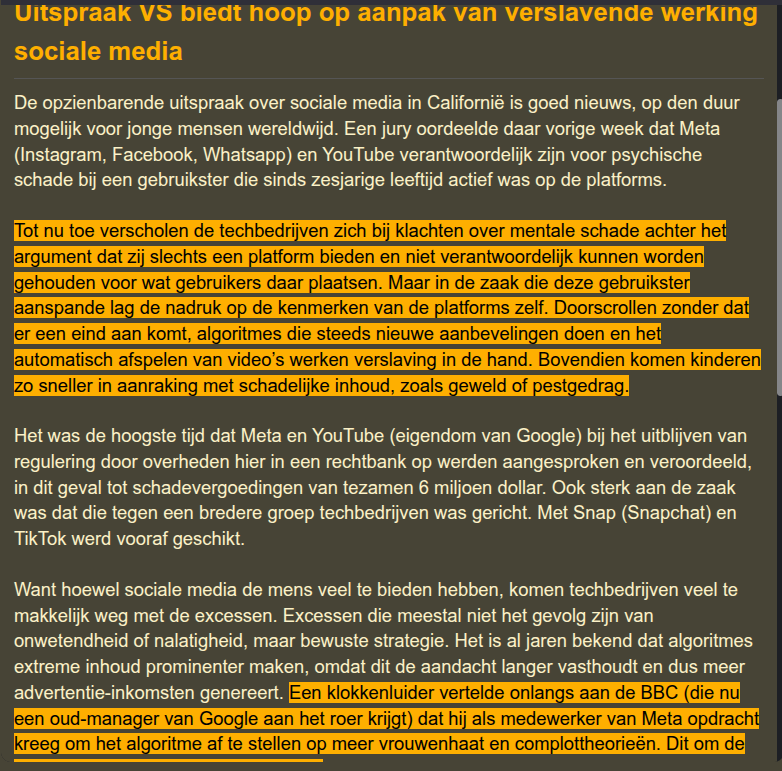
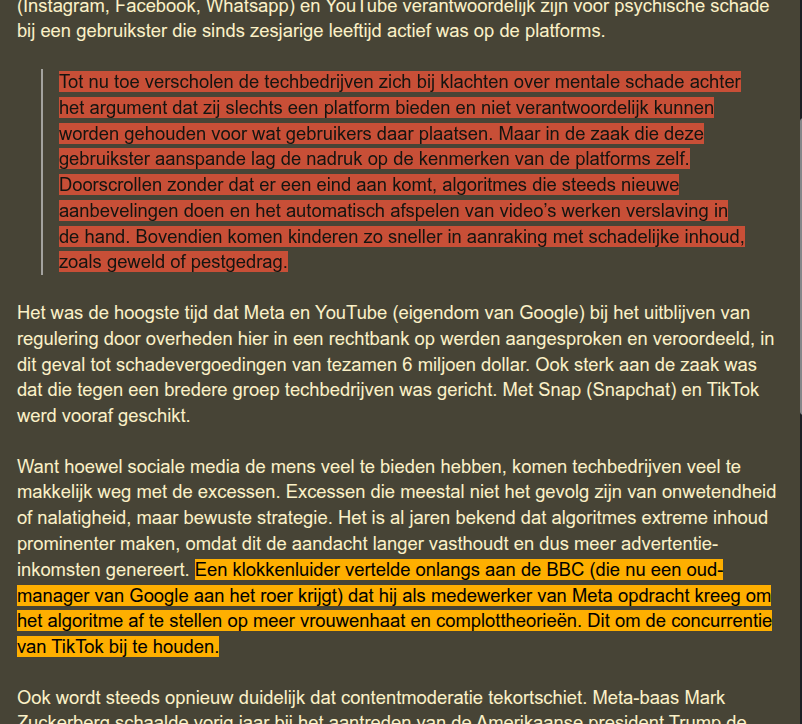
Add configuration option for summary marks

diff --git a/src/index.ts b/src/index.ts
@@ -63,6 +63,16 @@ async function registerHighlightsOnlySettings() {
         }
     });
     await joplin.settings.registerSettings({
+        supportSummaryMarks: {
+            value: true,
+            type: SettingItemType.Bool,
+            section: 'highlightsOnlyDisplaySection',
+            public: true,
+            label: 'Support summary-marks',
+            description: 'If enabled, in highlights-only display mode, marks inside blockquotes will be treated as the crux or summaries of the note. They will be marked with the backgroundcolor tomato (but user can style this; see README).'
+        }
+    });
+    await joplin.settings.registerSettings({
         highlightsOnlyHotkey: {
             value: "H",
             type: SettingItemType.String,
@@ -157,6 +167,11 @@ async function loadHighlightsOnlyCSS() {
     if (hideImages) {
         const hideImagesFilePath = installDir + '/hide-images.css';
         await (joplin as any).window.loadNoteCssFile(hideImagesFilePath);
+    }
+    const summaryMarks = await joplin.settings.value('supportSummaryMarks');
+    if (summaryMarks) {
+        const summaryMarksFilePath = installDir + '/summary-colors.css';
+        await (joplin as any).window.loadNoteCssFile(summaryMarksFilePath);
     }
 }
 

diff --git a/src/summary-colors.css b/src/summary-colors.css
@@ -1,0 +1,12 @@
+.highlights-only blockquote mark {
+    background: tomato;
+    color: black;
+}
+
+.highlights-only blockquote:has(mark) {
+    opacity: 0.7;
+}
+
+.highlights-only blockquote mark a, .highlights-only blockquote mark a:visited {
+    color: #fff176;
+}

diff --git a/README.md b/README.md
@@ -137,3 +137,20 @@
     border-radius: 4px;
 }
 ```
+
+* In your custom stylesheet, you can also style markings in blockquotes (set with quotes-sign in the editor toolbar). In this way you can mark texts which contain the crux c.q. the summary of an article. By default, if this feature was enabled in the plug-in settings, they will have a tomato background color, to make them stand out from the other, "normal" text marks. The default CSS for these marks is:
+
+```CSS
+.highlights-only blockquote mark {
+    background: tomato;
+    color: black;
+}
+
+.highlights-only blockquote:has(mark) {
+    opacity: 0.7;
+}
+
+.highlights-only blockquote mark a, .highlights-only blockquote mark a:visited {
+    color: #fff176;
+}
+```
